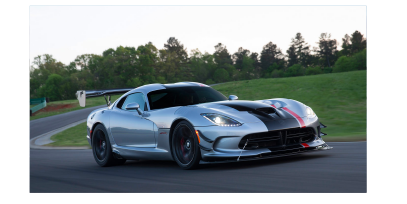
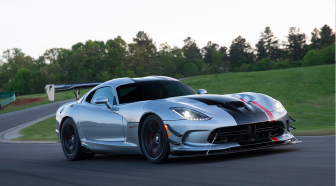
tuning more the cards

diff --git a/components/Home/Listings/Cards/Card/index.js b/components/Home/Listings/Cards/Card/index.js
@@ -1,13 +1,9 @@
 import styled from 'styled-components'
-import { em, rgba } from 'polished'
-import { percentage } from '%/styles/mixins'
+import { rgba } from 'polished'
 import { colors } from '%/styles'
 
-const CardContainer = styled.div`
-  padding: 0 ${em(9)};
-  max-width: ${percentage(1, 3)};
-  flex-basis: ${percentage(1, 3)};
-`
+import CardContainer from './Container'
+import Image from './Image'
 
 const Card = styled.a`
   display: block;
@@ -16,7 +12,18 @@ const Card = styled.a`
   text-align: center;
 `
 
-export default () =>
+export default ({
+  image,
+  newCar,
+  name,
+  location,
+  price,
+  difference,
+  seller,
+  sellerUrl
+}) =>
   <CardContainer>
-    <Card>Soon to be a card</Card>
+    <Card href={sellerUrl} title={name}>
+      <Image src={image} alt={name} />
+    </Card>
   </CardContainer>

diff --git a/components/Home/Listings/Cards/Card/Container/index.js b/components/Home/Listings/Cards/Card/Container/index.js
@@ -1,0 +1,10 @@
+import styled from 'styled-components'
+import { em } from 'polished'
+import { percentage } from '%/styles/mixins'
+
+const CardContainer = styled.div`
+  padding: 0 ${em(9)};
+  max-width: ${percentage(1, 3)};
+  flex-basis: ${percentage(1, 3)};
+`
+export default CardContainer

diff --git a/components/Home/Listings/Cards/Card/Image/index.js b/components/Home/Listings/Cards/Card/Image/index.js
@@ -1,0 +1,11 @@
+import styled from 'styled-components'
+import { em } from 'polished'
+
+const Image = styled.img`
+  display: block;
+  width: 100%;
+  max-height: ${em(190)};
+  object-fit: cover;
+`
+
+export default Image
